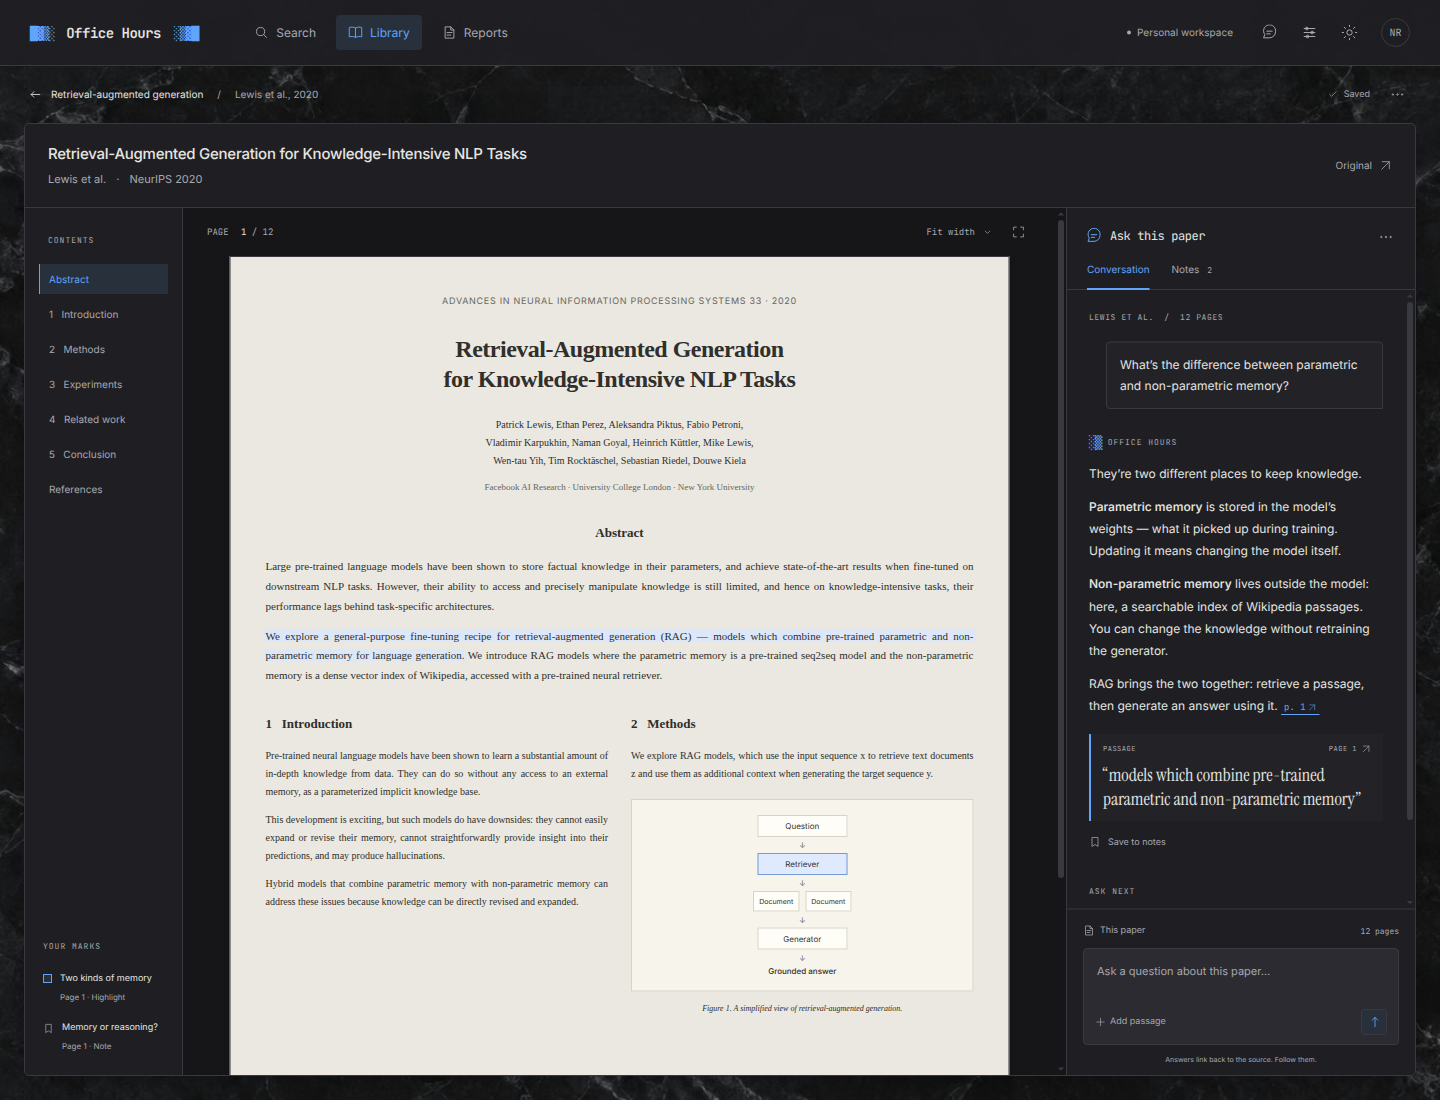
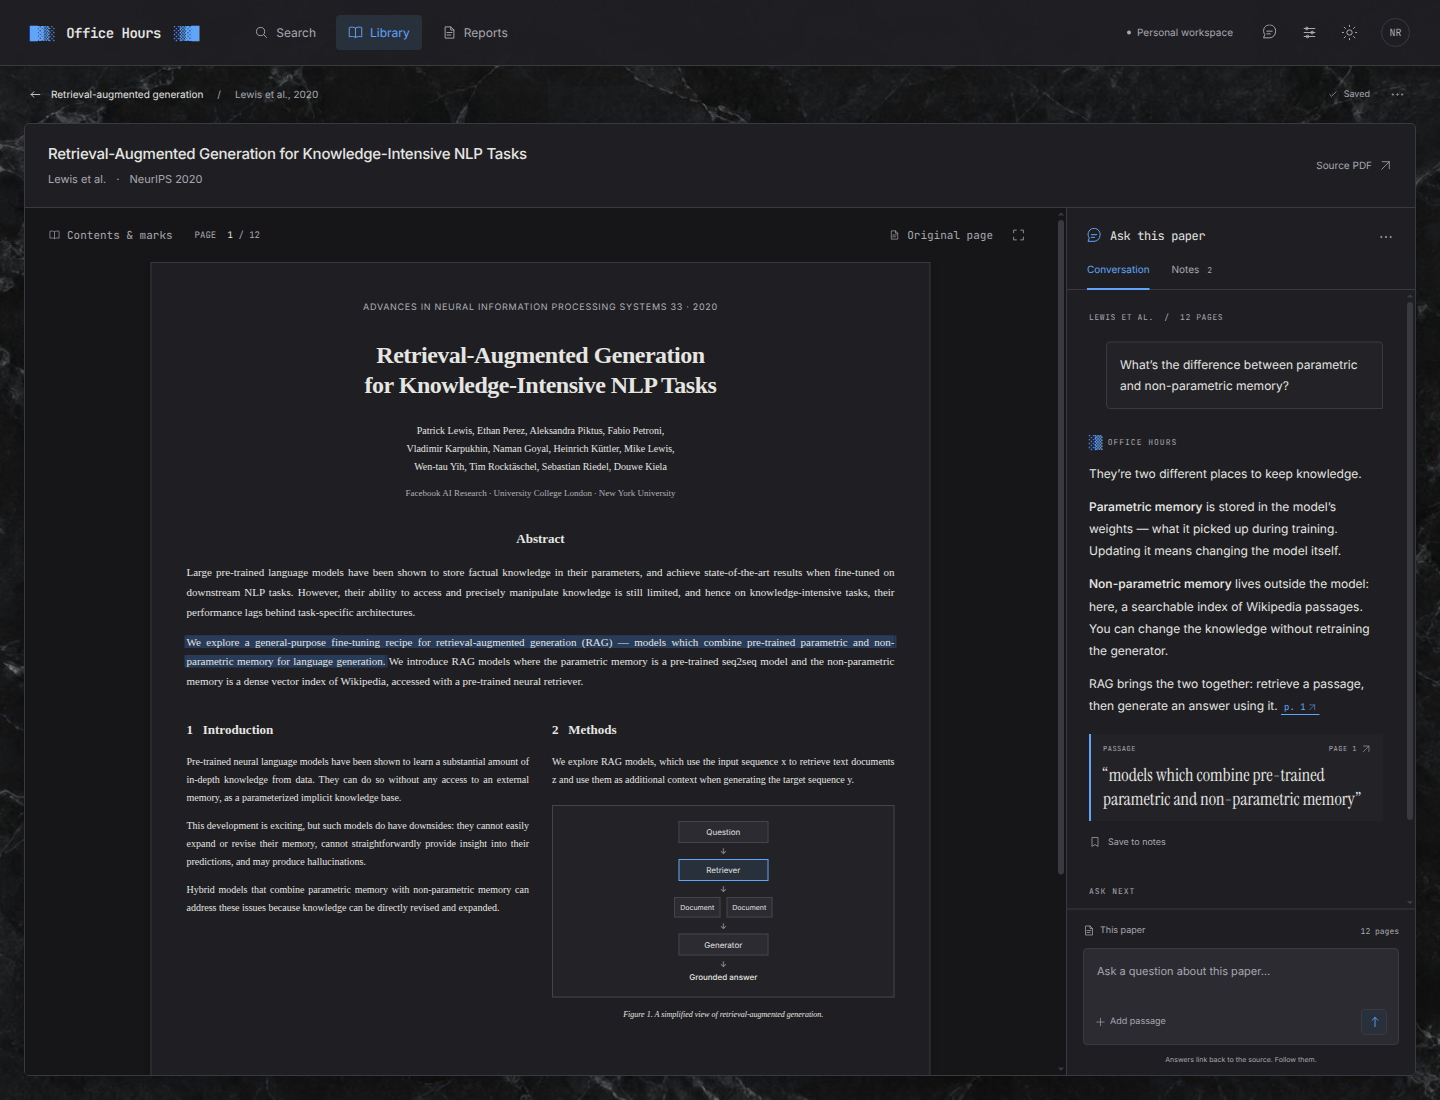
Simplify mockup reader and add dark paper controls

diff --git a/mockups/marble-workspace/app.js b/mockups/marble-workspace/app.js
@@ -19,6 +19,7 @@ const iconPaths = {
   refresh:'<path d="M20 8a8 8 0 1 0 0 8m0-14v6h-6"/>',
   clock:'<circle cx="12" cy="12" r="9"/><path d="M12 6v6l4 2"/>',
   expand:'<path d="M8 3H3v5m13-5h5v5M3 16v5h5m13-5v5h-5"/>',
+  close:'<path d="m6 6 12 12M6 18 18 6"/>',
 };
 const ic = (name, cls='') => `<svg class="icon ${cls}" viewBox="0 0 24 24" width="18" height="18" fill="none" stroke="currentColor" stroke-width="1.5" stroke-linecap="round" stroke-linejoin="round" aria-hidden="true">${iconPaths[name] || iconPaths.file}</svg>`;
 const theme = new URLSearchParams(location.search).get('theme') || localStorage.getItem('oh-marble-theme') || 'light';
@@ -54,9 +55,14 @@ function paper(){return `<article class="pdf-page"><div class="publication">ADVA
 function reader(){return `<main class="reader-workspace"><div class="reader-context"><a href="topic.html">${ic('arrow','back-arrow')} Retrieval-augmented generation</a><span>/</span><span>Lewis et al., 2020</span><div></div><span class="saved-indicator">${ic('check')} Saved</span><button class="icon-button" aria-label="More paper actions" data-message="This is a typeset preview, not a connected PDF viewer.">${ic('more')}</button></div><div class="reader-frame"><div class="paper-titlebar"><div><h1>Retrieval-Augmented Generation for Knowledge-Intensive NLP Tasks</h1><span>Lewis et al. <i>·</i> NeurIPS 2020</span></div><button class="text-button" data-message="Original-paper links are not connected in this visual study.">Original ${ic('diagonal')}</button></div><div class="reader-grid"><aside class="paper-outline"><span class="section-label">CONTENTS</span><nav aria-label="Paper contents"><a href="#abstract" class="active">Abstract</a><a href="#introduction">1 &nbsp; Introduction</a><a href="#methods">2 &nbsp; Methods</a><a href="#experiments">3 &nbsp; Experiments</a><a href="#related">4 &nbsp; Related work</a><a href="#conclusion">5 &nbsp; Conclusion</a><a href="#references">References</a></nav><div class="outline-bottom"><span class="section-label">YOUR MARKS</span><button id="jump-highlight"><i class="highlight-marker"></i><span>Two kinds of memory<small>Page 1 · Highlight</small></span></button><button data-message="Sample note: Is retrieval a memory system, or a reasoning step?">${ic('bookmark')}<span>Memory or reasoning?<small>Page 1 · Note</small></span></button></div></aside><section class="document-pane" aria-label="Paper excerpt"><div class="pdf-toolbar"><span>PAGE <strong>1</strong> / 12</span><div><button class="text-button" data-message="The excerpt is fitted to the paper pane.">Fit width ${ic('down')}</button><button class="icon-button" id="focus-mode" aria-label="Toggle focused reading">${ic('expand')}</button></div></div>${paper()}<p class="typeset-note">Typeset excerpt · Visual prototype, not a live PDF</p></section><aside class="paper-companion"><div class="companion-heading"><span>${ic('chat')} Ask this paper</span><button class="icon-button" data-message="Sample conversation; no model is connected." aria-label="Conversation options">${ic('more')}</button></div><div class="companion-tabs"><button class="active" data-companion-tab="chat">Conversation</button><button data-companion-tab="notes">Notes <span>2</span></button></div><div class="conversation" id="conversation"><div class="chat-context-label">LEWIS ET AL. <span>/</span> 12 PAGES</div><div class="user-question">What’s the difference between parametric and non-parametric memory?</div><div class="assistant-answer"><div class="answer-label"><span>░▒</span> OFFICE HOURS</div><p>They’re two different places to keep knowledge.</p><p><strong>Parametric memory</strong> is stored in the model’s weights — what it picked up during training. Updating it means changing the model itself.</p><p><strong>Non-parametric memory</strong> lives outside the model: here, a searchable index of Wikipedia passages. You can change the knowledge without retraining the generator.</p><p>RAG brings the two together: retrieve a passage, then generate an answer using it. <button class="inline-cite" id="inline-source">p. 1 ${ic('diagonal')}</button></p><button class="evidence-excerpt" id="evidence-source"><span>PASSAGE <span>PAGE 1 ${ic('diagonal')}</span></span><q>models which combine pre-trained parametric and non-parametric memory</q></button><button class="save-note text-button" id="save-note">${ic('bookmark')} Save to notes</button></div><div class="followup-questions"><span class="section-label">ASK NEXT</span><button data-followup="How does the retriever learn?">How does the retriever learn? ${ic('arrow')}</button><button data-followup="What can still go wrong?">What can still go wrong? ${ic('arrow')}</button></div></div><div class="companion-composer"><div class="composer-context">${ic('file')} This paper <span>12 pages</span></div><form id="chat-form"><label class="sr-only" for="chat-input">Ask a question about this paper</label><textarea id="chat-input" rows="2" placeholder="Ask a question about this paper…" required></textarea><div><button type="button" data-message="Selected passages would appear here in the live reader.">${ic('plus')} Add passage</button><button class="send-button" type="submit" aria-label="Send question">${ic('up')}</button></div></form><p>Answers link back to the source. Follow them.</p></div></aside></div></div></main>`;}
 
 document.getElementById('app').innerHTML = `${header()}${page==='reader'?reader():page==='topic'?topic():home()}<div class="toast" role="status" hidden></div>`;
+if(page==='reader')setupReader();
 let toastTimer;
 function toast(message){const el=document.querySelector('.toast');el.textContent=message;el.hidden=false;clearTimeout(toastTimer);toastTimer=setTimeout(()=>el.hidden=true,4300);}
-function syncTheme(){document.querySelector('.theme-toggle').innerHTML=ic(document.documentElement.dataset.theme==='dark'?'sun':'moon');document.querySelector('.theme-toggle').setAttribute('aria-pressed',String(document.documentElement.dataset.theme==='dark'));}
+function syncTheme(){
+  document.querySelector('.theme-toggle').innerHTML=ic(document.documentElement.dataset.theme==='dark'?'sun':'moon');
+  document.querySelector('.theme-toggle').setAttribute('aria-pressed',String(document.documentElement.dataset.theme==='dark'));
+  document.dispatchEvent(new Event('oh-theme-change'));
+}
 syncTheme();
 document.querySelector('.theme-toggle').addEventListener('click',()=>{const next=document.documentElement.dataset.theme==='dark'?'light':'dark';document.documentElement.dataset.theme=next;localStorage.setItem('oh-marble-theme',next);const url=new URL(location.href);url.searchParams.set('theme',next);history.replaceState({},'',url);syncTheme();});
 document.querySelectorAll('[data-message]').forEach(el=>el.addEventListener('click',()=>toast(el.dataset.message)));
@@ -66,7 +72,7 @@ document.querySelectorAll('[data-desk-tab]').forEach(el=>el.addEventListener('cl
 function topicTab(name){document.querySelectorAll('[data-topic-tab]').forEach(b=>{b.classList.toggle('active',b.dataset.topicTab===name);b.setAttribute('aria-selected',String(b.dataset.topicTab===name));});document.getElementById('report-panel').hidden=name!=='report';const panel=document.getElementById('topic-alt-panel');panel.hidden=name==='report';if(name==='papers')panel.innerHTML=`<div class="alternate-heading"><h2>Papers in this topic</h2><span>Showing 5 sample sources from a 24-paper collection</span></div>${papers.map((_,i)=>source(i)).join('')}`;if(name==='notes')panel.innerHTML='<div class="alternate-heading"><h2>Your notes</h2><span>Linked to the sources, kept in context.</span></div><div class="sample-note"><span class="section-label">LEWIS ET AL. / PAGE 1</span><p>Is retrieval a memory system, or a reasoning step?</p><span>Today, 10:48</span></div>';if(name==='tracking')panel.innerHTML='<div class="alternate-heading"><h2>Tracked searches</h2><span>New matching papers join this collection automatically in the live app.</span></div><div class="tracked-search">retrieval augmented generation <span>Last checked 2h ago</span></div><div class="tracked-search">grounded language models <span>Last checked 2h ago</span></div>';}
 document.querySelectorAll('[data-topic-tab]').forEach(el=>el.addEventListener('click',()=>topicTab(el.dataset.topicTab)));
 document.querySelectorAll('[data-open-papers]').forEach(el=>el.addEventListener('click',e=>{e.preventDefault();topicTab('papers');}));
-document.getElementById('focus-mode')?.addEventListener('click',()=>document.querySelector('.reader-grid').classList.toggle('focus-mode'));
+document.getElementById('focus-mode')?.addEventListener('click',e=>e.currentTarget.setAttribute('aria-pressed',String(document.querySelector('.reader-grid').classList.toggle('focus-mode'))));
 function showSource(){const el=document.querySelector('.abstract mark');el.classList.add('source-highlight');el.scrollIntoView({block:'center',behavior:'smooth'});setTimeout(()=>el.classList.remove('source-highlight'),2200);}
 ['jump-highlight','inline-source','evidence-source'].forEach(id=>document.getElementById(id)?.addEventListener('click',showSource));
 document.querySelectorAll('.paper-outline nav a').forEach(el=>el.addEventListener('click',e=>{e.preventDefault();document.querySelectorAll('.paper-outline nav a').forEach(a=>a.classList.toggle('active',a===el));if(el.getAttribute('href')==='#abstract')showSource();else toast('The visual study contains a typeset excerpt of page 1 only.');}));
@@ -76,3 +82,41 @@ document.getElementById('chat-form')?.addEventListener('submit',e=>{e.preventDef
 document.querySelectorAll('[data-followup]').forEach(el=>el.addEventListener('click',()=>chatReply(el.dataset.followup)));
 document.querySelectorAll('[data-companion-tab]').forEach(el=>el.addEventListener('click',()=>{if(el.dataset.companionTab==='notes')toast('Sample notes: “Two kinds of memory” and “Memory or reasoning?”.');}));
 document.addEventListener('keydown',e=>{if((e.metaKey||e.ctrlKey)&&e.key.toLowerCase()==='k'){e.preventDefault();if(page==='home')document.getElementById('research-question').focus();else location.href='index.html';}});
+
+// Progressive disclosure keeps the default reader to the paper and conversation.
+function setupReader(){
+  document.querySelector('.paper-titlebar>.text-button').innerHTML='Source PDF '+ic('diagonal');
+  const toolbar=document.querySelector('.pdf-toolbar');
+  toolbar.innerHTML=`<div class="reader-controls"><button type="button" class="text-button" id="reader-tools-toggle" aria-haspopup="dialog" aria-controls="reader-tools" aria-expanded="false">${ic('book')} Contents & marks</button><span class="page-indicator">PAGE <strong>1</strong> / 12</span></div><div><button type="button" class="text-button paper-appearance" id="paper-appearance" aria-pressed="false">${ic('file')} Original page</button><button class="icon-button" id="focus-mode" aria-label="Toggle focused reading" aria-pressed="false">${ic('expand')}</button></div>`;
+  const paper=document.querySelector('.pdf-page');
+  const appearance=document.getElementById('paper-appearance');
+  let originalOverride=null;
+  function syncPaper(){
+    const original=originalOverride??document.documentElement.dataset.theme!=='dark';
+    paper.dataset.tone=original?'original':'dark';
+    appearance.setAttribute('aria-pressed',String(original));
+    appearance.innerHTML=ic(original?'check':'file')+' Original page';
+    appearance.title=original?'Original colors are on. Switch to a dark page.':'Show the original light page without changing the app theme.';
+  }
+  appearance.addEventListener('click',()=>{originalOverride=paper.dataset.tone!=='original';syncPaper();});
+  document.addEventListener('oh-theme-change',()=>{originalOverride=null;syncPaper();});
+  syncPaper();
+
+  const dialog=document.createElement('dialog');
+  dialog.id='reader-tools';
+  dialog.className='reader-tools';
+  dialog.setAttribute('aria-labelledby','reader-tools-title');
+  dialog.innerHTML=`<div class="reader-tools-heading"><h2 id="reader-tools-title">Contents & marks</h2><button type="button" class="icon-button" aria-label="Close contents and marks" autofocus>${ic('close')}</button></div>`;
+  dialog.append(document.querySelector('.paper-outline'));
+  document.querySelector('.reader-frame').append(dialog);
+  const toggle=document.getElementById('reader-tools-toggle');
+  toggle.addEventListener('click',()=>{dialog.showModal();toggle.setAttribute('aria-expanded','true');});
+  dialog.querySelector('.reader-tools-heading button').addEventListener('click',()=>dialog.close());
+  dialog.addEventListener('close',()=>{toggle.setAttribute('aria-expanded','false');toggle.focus({preventScroll:true});});
+  dialog.addEventListener('click',e=>{
+    if(e.target!==dialog)return;
+    const rect=dialog.getBoundingClientRect();
+    if(e.clientX<rect.left||e.clientX>rect.right||e.clientY<rect.top||e.clientY>rect.bottom)dialog.close();
+  });
+  dialog.querySelectorAll('.paper-outline a,.paper-outline button').forEach(el=>el.addEventListener('click',()=>dialog.close()));
+}

diff --git a/mockups/marble-workspace/style.css b/mockups/marble-workspace/style.css
@@ -71,4 +71,44 @@ body[data-page=reader]{height:100vh;overflow:hidden}.reader-workspace{height:cal
   .affiliations{font-size:9px}
 }
 @media(max-width:720px){.publication{font-size:7px}.affiliations{font-size:8px}.paper-authors{font-size:9px}}
+/* Reader revision: two visible panes; navigation and marks are available on demand. */
+.reader-frame .reader-grid{grid-template-columns:minmax(0,1fr) 349px}
+.reader-frame .reader-grid.focus-mode{grid-template-columns:minmax(0,1fr)}
+.pdf-toolbar{height:54px;flex-shrink:0}
+.pdf-toolbar .reader-controls{gap:22px}
+.pdf-toolbar .text-button{font-size:11px;white-space:nowrap}
+.page-indicator{font-size:9px;white-space:nowrap}
+.page-indicator strong{font-weight:400;color:var(--fg);margin-left:6px}
+.paper-appearance[aria-pressed=true]{color:var(--accent)}
+.pdf-page{--paper-muted:#68665e;--paper-line:#d9d3c5;--paper-soft:#f7f4ec;--paper-node:#fffdf7;--paper-cite:#dce8fa;--paper-flash:#a4c5ff;--paper-blue:#e0eaff;--paper-blue-line:#759bd7}
+.pdf-page[data-tone=original]{--paper:#fffefa;--paper-ink:#302f2b}
+.pdf-page[data-tone=dark]{--paper:#1f1f23;--paper-ink:#e5e5e1;--paper-muted:#b0b0b6;--paper-line:#44444b;--paper-soft:#232327;--paper-node:#2b2b31;--paper-cite:#283b58;--paper-flash:#355a87;--paper-blue:#28303c;--paper-blue-line:#60a5fa}
+.pdf-page .publication,.pdf-page .affiliations,.pdf-page .paper-page-number{color:var(--paper-muted)}
+.abstract mark{background:var(--paper-cite);box-shadow:2px 0 var(--paper-cite),-2px 0 var(--paper-cite)}
+.abstract mark.source-highlight{background:var(--paper-flash);box-shadow:2px 0 var(--paper-flash),-2px 0 var(--paper-flash)}
+.paper-diagram{border-color:var(--paper-line);background:var(--paper-soft)}
+.paper-diagram>span,.paper-diagram>div>span{border-color:var(--paper-line);background:var(--paper-node)}
+.paper-diagram>.retriever{border-color:var(--paper-blue-line);background:var(--paper-blue)}
+.paper-diagram>i{color:var(--paper-muted)}
+.reader-tools{position:fixed;inset:145px auto 24px 24px;margin:0;width:274px;height:680px;max-width:calc(100vw - 48px);max-height:calc(100dvh - 169px);padding:0;background:var(--surface);color:var(--fg);border:1px solid var(--border);border-radius:4px;box-shadow:0 8px 40px #0003;overflow:hidden}
+.reader-tools::backdrop{background:#0003}
+.reader-tools[open]{display:flex;flex-direction:column}
+.reader-tools-heading{display:flex;align-items:center;justify-content:space-between;gap:12px;padding:18px;border-bottom:1px solid var(--border)}
+.reader-tools-heading h2{font:12px var(--mono)}
+.reader-tools-heading .icon-button{width:30px;height:30px}
+.reader-tools .paper-outline{display:flex;flex:1;min-height:0;padding:23px 18px;border:0}
+.reader-tools .paper-outline>.section-label,.reader-tools .outline-bottom>.section-label{font-size:10px}
+.reader-tools .paper-outline>nav>a{font-size:12px;padding:9px}
+.reader-tools .outline-bottom{padding-top:26px}
+.reader-tools .outline-bottom>button{font-size:12px}
+.reader-tools .outline-bottom>button small{font-size:10px}
+@media(min-width:1600px){.reader-frame .reader-grid{grid-template-columns:minmax(0,1fr) 384px}}
+@media(min-width:721px) and (max-width:1000px){.reader-frame .reader-grid{grid-template-columns:minmax(0,1fr) 315px}.pdf-toolbar .reader-controls{gap:12px}.page-indicator{display:none}.pdf-toolbar .text-button{font-size:10px}}
+@media(max-width:720px){
+  .pdf-toolbar{height:auto;min-height:78px;flex-wrap:wrap;padding:10px 0;gap:8px}
+  .pdf-toolbar .reader-controls{gap:12px;justify-content:space-between;flex:1 1 100%}
+  .pdf-toolbar>div:last-child{justify-content:space-between;flex:1 1 100%}
+  .pdf-toolbar .text-button{font-size:11px}
+  .reader-tools{inset:92px 12px auto;margin:0;width:calc(100vw - 24px);max-width:none;height:650px;max-height:calc(100dvh - 116px)}
+}
 @media(prefers-reduced-motion:reduce){*{scroll-behavior:auto!important;transition:none!important}}

diff --git a/mockups/marble-workspace/README.md b/mockups/marble-workspace/README.md
@@ -14,7 +14,7 @@ Open `index.html`, `topic.html`, or `reader.html`. Use `?theme=light` or `?theme
 
 - **Home:** a working research desk rather than a promotional hero; a direct search field, continuing research threads, last reading position, and a note in context.
 - **Topic:** numbered source references live in a reading margin beside the report. Papers, notes and tracked searches are separate views, without losing the collection context.
-- **Reader:** source text, marks and conversation remain next to one another. Clicking a source jumps to the highlighted passage; focus mode removes the chat when it is not needed.
+- **Reader:** opens with just the paper and conversation. **Contents & marks** opens an on-demand drawer; close it, press Escape, or select a passage to return to reading. Dark mode uses a dark paper by default; **Original page** toggles the paper colors independently, and switching the app theme resets the paper to that theme’s default. Clicking a source jumps to the highlighted passage; focus mode removes the chat when it is not needed.
 - **Visuals:** warm paper and charcoal surfaces from `static/css/variables.css`; the exact original `marble-light.jpg` and `marble-dark.jpg`; restrained blue selection marks instead of a new accent system. Marble is a desk behind the content, never behind body text.
 
 ## Screenshots
@@ -27,7 +27,9 @@ Captured at 1440 px wide with fonts loaded. Home and topic use full-page capture
 | Topic | [Light](screenshots/marble-topic-light.png) | [Dark](screenshots/marble-topic-dark.png) |
 | Reader | [Light](screenshots/marble-reader-light.png) | [Dark](screenshots/marble-reader-dark.png) |
 
-Browser-verified: theme persistence through home → topic → reader, home and topic views, search navigation, source highlighting, and focused reading. No page-level horizontal overflow at 390 × 844 in either theme. Marble assets match the originals byte-for-byte.
+Optional reader states: [original light paper within the dark app](screenshots/marble-reader-dark-original.png) · [contents and marks open](screenshots/marble-reader-dark-contents.png).
+
+Browser-verified: theme persistence through home → topic → reader, home and topic views, search navigation, source highlighting, and focused reading. The paper follows app-theme changes; its Original page switch leaves the app/chat theme untouched. Contents & marks supports Escape, backdrop dismissal, focus return and saved-passage jumps on desktop and mobile. No page-level horizontal overflow at 390 × 844 in either theme. Marble assets match the originals byte-for-byte.
 
 ## Boundaries
 
